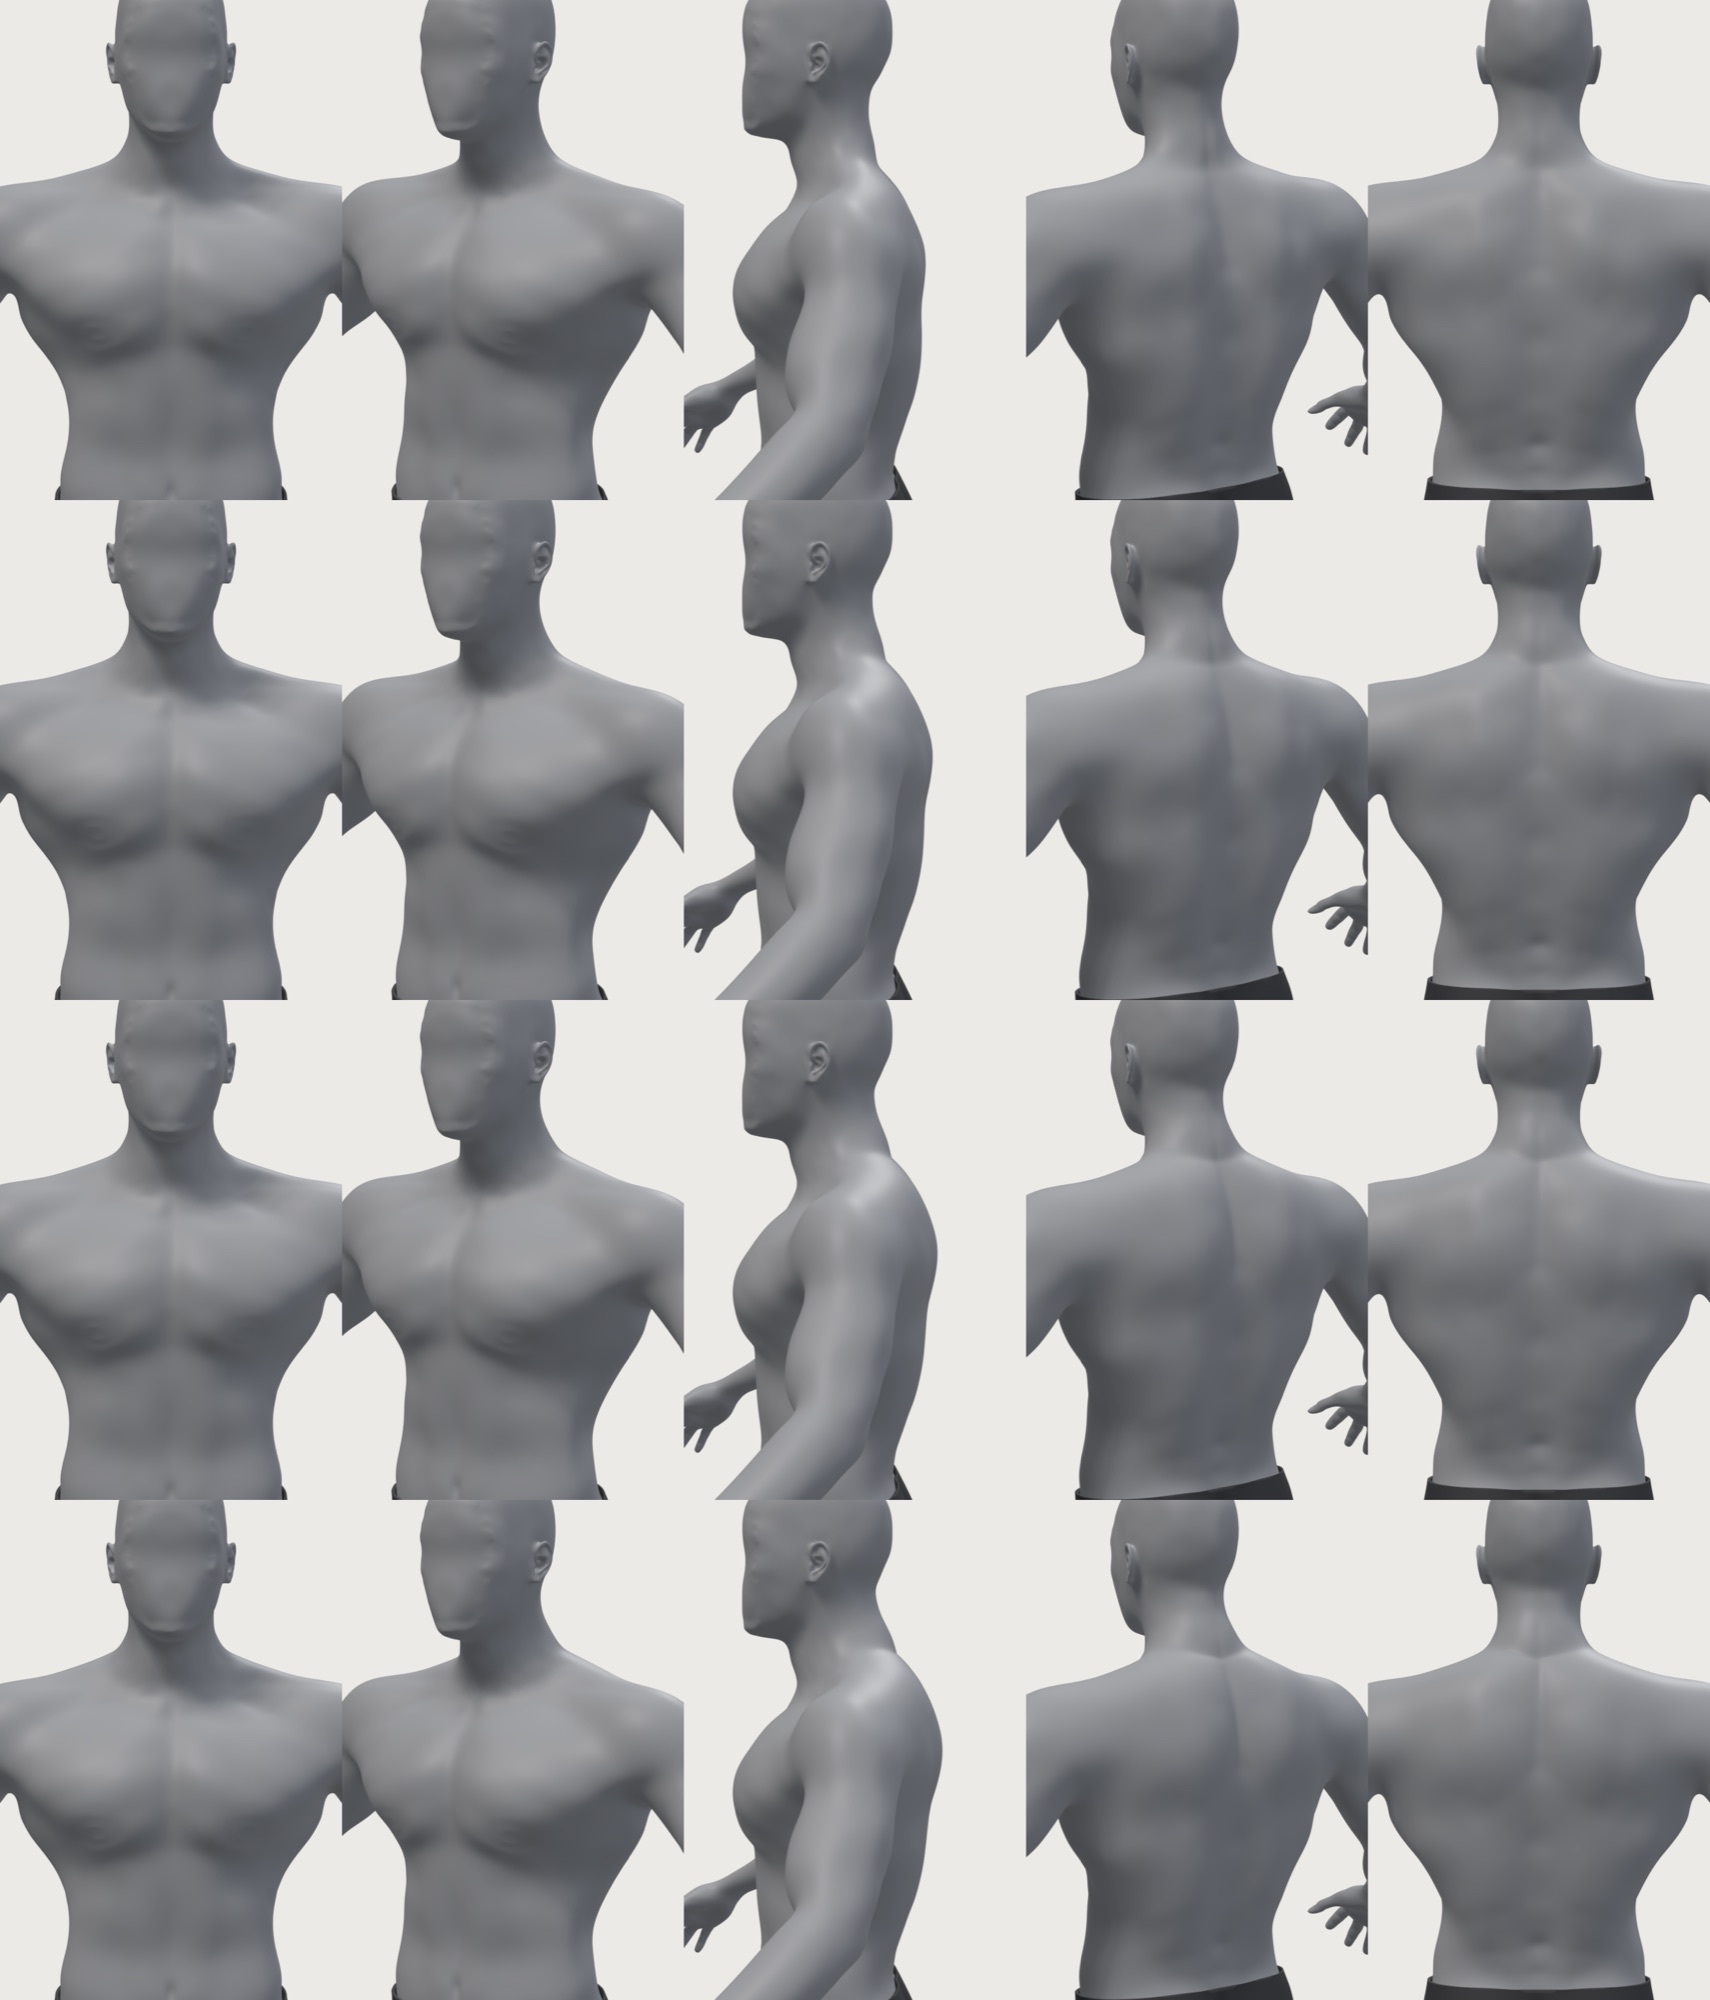
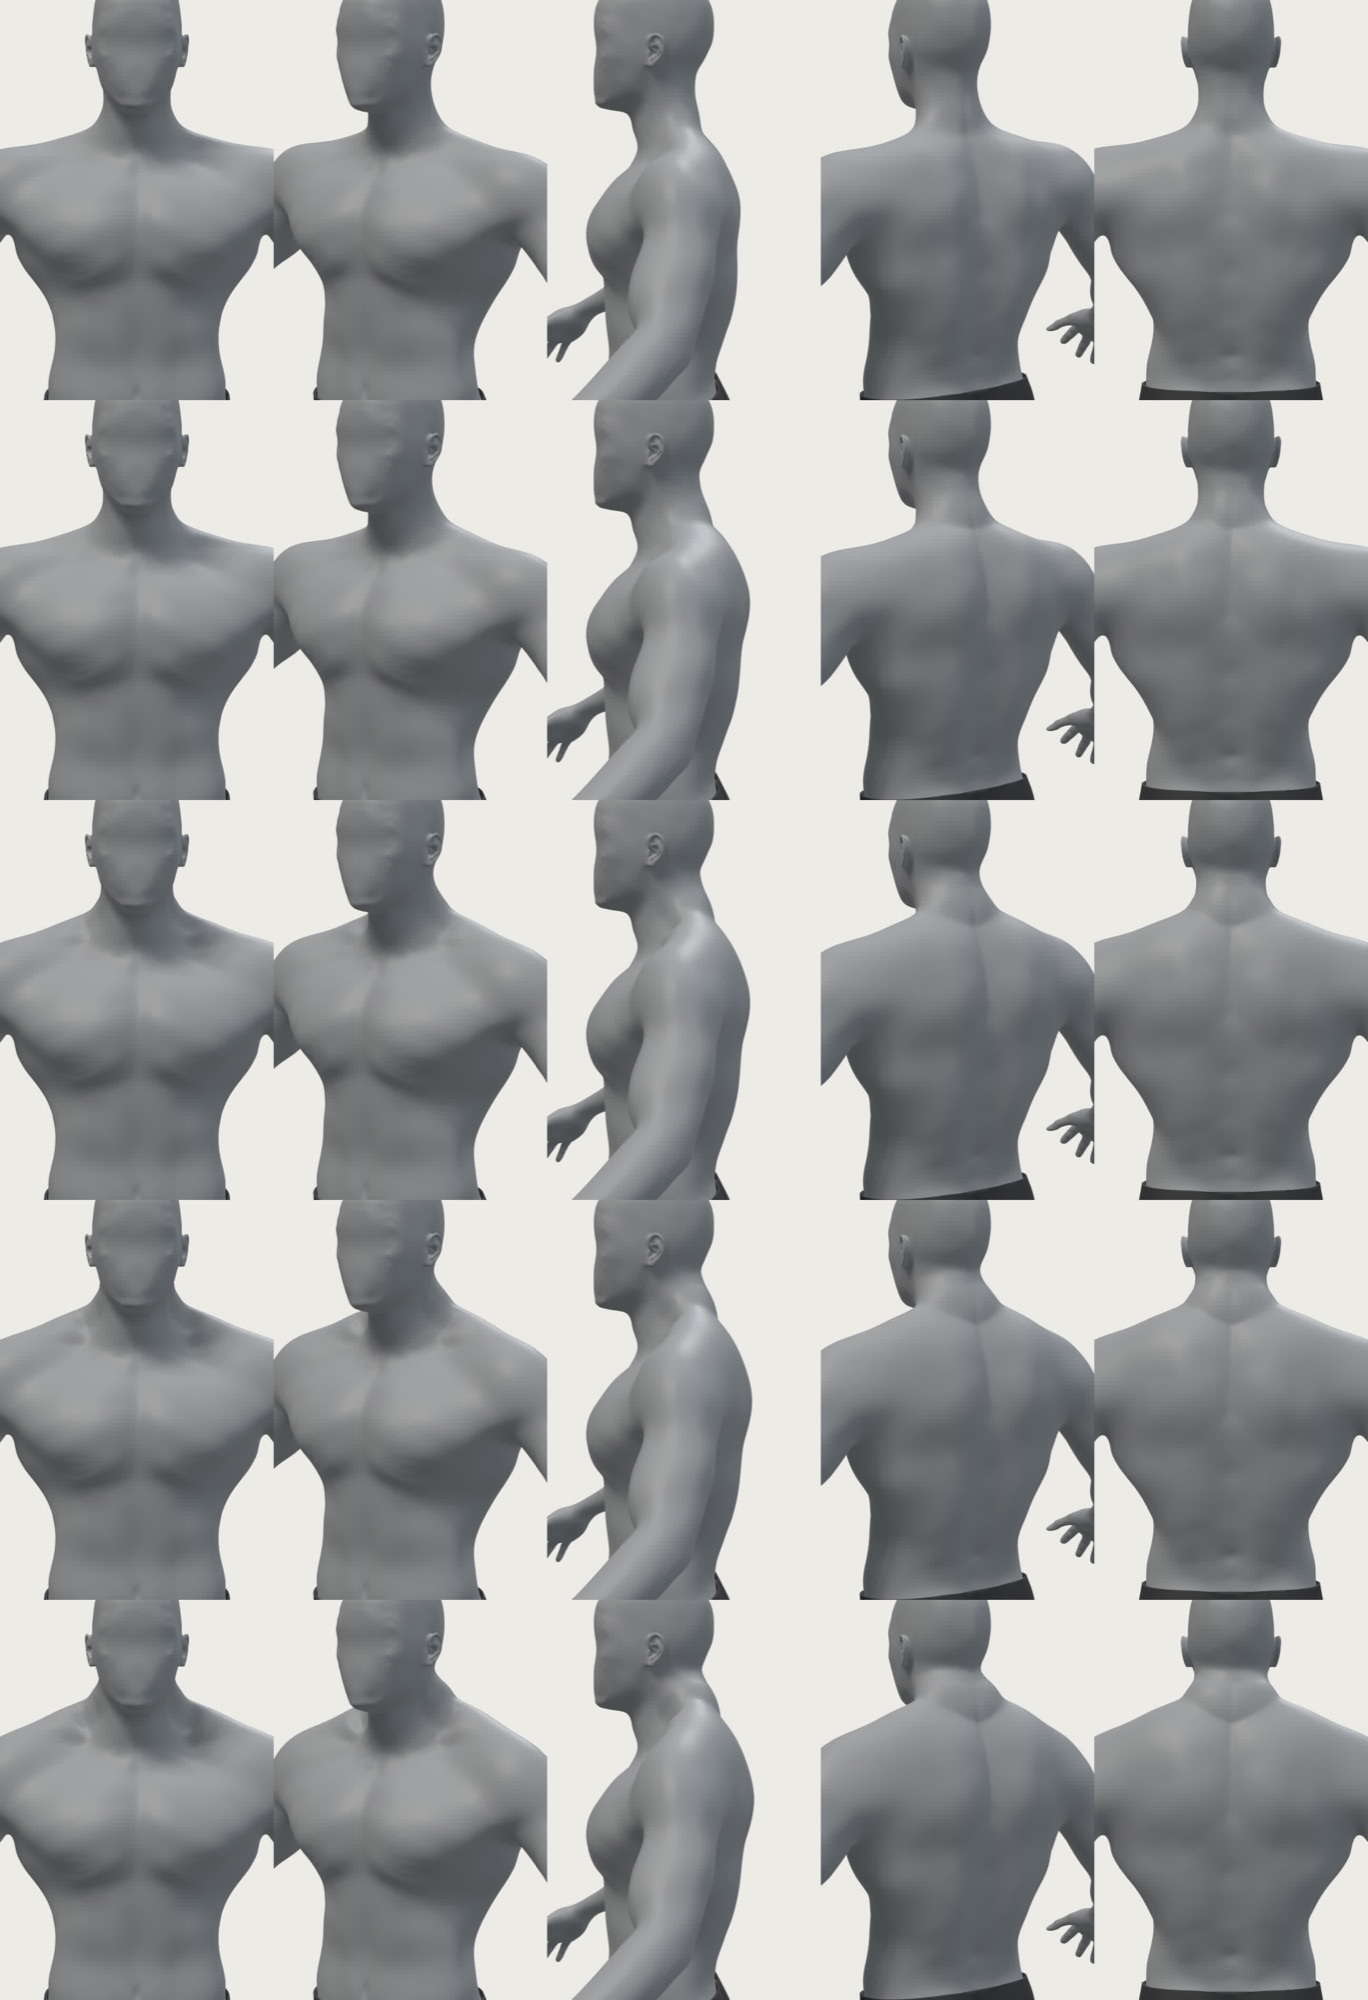
Mock cơ thang vòng 2: cơ cầu vai cao (D/E/F) theo Kiệt (#527)

diff --git a/artifacts/exercise-visual-system/pipeline/mock_trapezius.py b/artifacts/exercise-visual-system/pipeline/mock_trapezius.py
@@ -3,9 +3,12 @@ for Kiệt to choose (15/11: "charactor không có cơ trap").
 
     Blender -b --factory-startup --python pipeline/mock_trapezius.py -- <out_dir> [amp_m ...]
 
-The sheet Kiệt reviewed (15/11): docs/exercise-visual-system/trapezius_options.jpg,
-rows top to bottom = current 003, A 1.5 cm, B 2.5 cm, C 3.5 cm; columns =
-front, 3/4 front, side, 3/4 back, back.
+The sheet for Kiệt: docs/exercise-visual-system/trapezius_options.jpg.
+Round 1 (15/11) had A/B/C = 1.5/2.5/3.5 cm on the mask only; Kiệt asked for
+taller traps ("khối cơ cầu vai cao lên", as on American/European lifters).
+Round 2 rows, top to bottom: current 003, B (mask 2.5 cm), D, E, F (mask
+plus a tall band up the back of the neck: 2.2/3.2/4.2 cm, reaching 40/50/60 %
+of the neck). Columns: front, 3/4 front, side, 3/4 back, back.
 
 MakeHuman/MPFB has no trapezius target (only pectoral, dorsi and deltoid),
 and the existing sculpt (sculpt_muscles.py) only cuts 4 mm grooves, so the
@@ -101,10 +104,53 @@ def trapezius_weights(body, rig) -> np.ndarray:
     return w / max(w.max(), 1e-6)
 
 
+def tall_weights(body, rig, reach: float) -> np.ndarray:
+    """Upper trapezius as a tall slope (Kiệt 15/11: "khối cơ cầu vai cao
+    lên", as on trained American and European lifters). A band along each
+    side of the back of the neck, from ``reach`` of the way up the neck down
+    to the top of the acromion: thickest where the neck meets the shoulder
+    line, fading at both ends. The baked mask stops at the base of the neck,
+    so this band is placed from the bones, not the mask. Front of the neck
+    and the face stay untouched."""
+    mesh = body.data
+    co = np.array([v.co[:] for v in mesh.vertices])
+    nor = np.array([v.normal[:] for v in mesh.vertices])
+    bones = {b.name: (rig.matrix_world @ b.head_local) for b in rig.data.bones}
+    neck = np.array(bones["neck_01"][:])
+    head = np.array(bones["head"][:])
+    w = np.zeros(len(co))
+    for s, sign in (("l", 1.0), ("r", -1.0)):
+        acr = np.array(bones[f"upperarm_{s}"][:])
+        top = np.array([sign * 0.045, neck[1] + 0.02, neck[2] + reach * (head[2] - neck[2])])
+        end = acr + np.array([-sign * 0.01, 0.01, 0.035])
+        ab = end - top
+        t = np.clip(((co - top) @ ab) / (ab @ ab), 0.0, 1.0)
+        d = np.linalg.norm(co - (top + t[:, None] * ab), axis=1)
+        prof = np.sin(np.pi * np.clip(0.1 + 0.9 * t, 0, 1)) ** 0.6
+        side = (co[:, 0] * sign) > -0.01
+        w = np.maximum(w, np.where(side, np.exp(-(d / 0.055) ** 2) * prof, 0.0))
+    front = (nor[:, 1] < -0.25) & (co[:, 2] > neck[2] - 0.06) & (np.abs(co[:, 0]) < 0.10)
+    # Fade out below the skull (a hard cut left a seam at the back of the
+    # head, 15/11), then smooth over the mesh like the mask weights.
+    w = w * (1.0 - smoothstep(head[2] - 0.07, head[2] - 0.01, co[:, 2]))
+    w[front] = 0.0
+    edges = np.array([e.vertices[:] for e in mesh.edges])
+    deg = np.bincount(edges.ravel(), minlength=len(co)).astype(float)
+    for _ in range(12):
+        acc = np.zeros(len(co))
+        np.add.at(acc, edges[:, 0], w[edges[:, 1]])
+        np.add.at(acc, edges[:, 1], w[edges[:, 0]])
+        w = 0.5 * w + 0.5 * acc / np.maximum(deg, 1)
+    w[front] = 0.0
+    return w / max(w.max(), 1e-6)
+
+
 def main():
     argv = sys.argv[sys.argv.index("--") + 1:] if "--" in sys.argv else []
     out_dir = argv[0]
-    amps = [float(a) for a in argv[1:]] or [0.0, 0.015, 0.025, 0.035]
+    # (label, base amplitude on the mask, tall-band amplitude, neck reach)
+    options = [("003", 0.0, 0.0, 0.0), ("B", 0.025, 0.0, 0.0),
+               ("D", 0.025, 0.022, 0.40), ("E", 0.030, 0.032, 0.50), ("F", 0.035, 0.042, 0.60)]
     os.makedirs(out_dir, exist_ok=True)
     cfg = config.character_config()
     brand = config.brand_config()
@@ -112,6 +158,7 @@ def main():
     body = bpy.data.objects[cfg["names"]["body_object"]]
     rig = next(o for o in bpy.data.objects if o.type == "ARMATURE")
     w = trapezius_weights(body, rig)
+    tall = {reach: tall_weights(body, rig, reach) for _l, _a, _b, reach in options if reach}
     mesh = body.data
     rest = np.array([v.co[:] for v in mesh.vertices])
     nor = np.array([v.normal[:] for v in mesh.vertices])
@@ -119,6 +166,9 @@ def main():
     # Push mostly along the normal, a little upward on top-facing skin.
     dirs = nor + up * np.clip(nor[:, 2:3], 0, 1) * 0.3
     dirs /= np.linalg.norm(dirs, axis=1, keepdims=True)
+    # The tall band lifts the slope: mostly upward, a little outward.
+    lift = nor * 0.5 + up * 0.8
+    lift /= np.linalg.norm(lift, axis=1, keepdims=True)
     print("[mock] weighted vertices", int((w > 0.05).sum()))
 
     scene = bpy.context.scene
@@ -136,8 +186,10 @@ def main():
     views = (("front", 0), ("three_quarter", 35), ("side", 90), ("back_three_quarter", 145), ("back", 180))
     cams = {name: studio.add_camera(f"Mock_{name}", focus, az, 6.0, 2.0, focal_length=105.0) for name, az in views}
     rows = []
-    for k, amp in enumerate(amps):
+    for k, (label, amp, tall_amp, reach) in enumerate(options):
         new = rest + dirs * (amp * w)[:, None]
+        if reach:
+            new = new + lift * (tall_amp * tall[reach])[:, None]
         mesh.vertices.foreach_set("co", new.ravel())
         mesh.update()
         tiles = []
